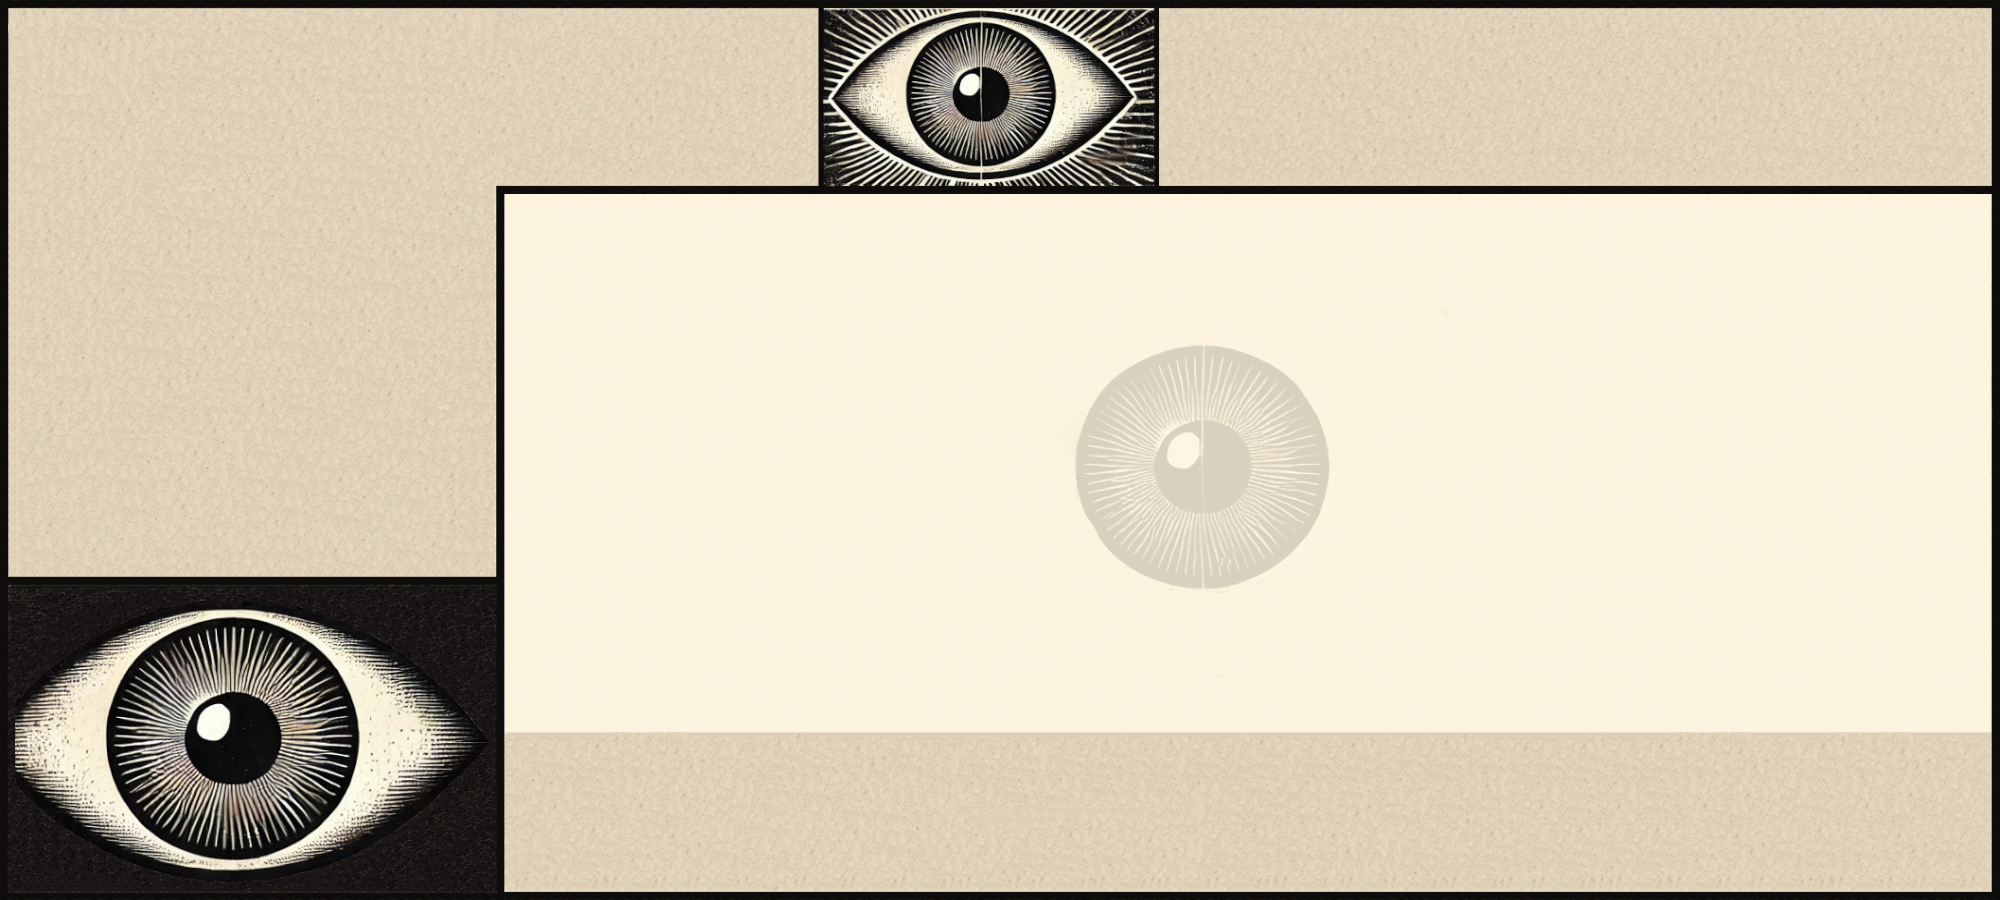
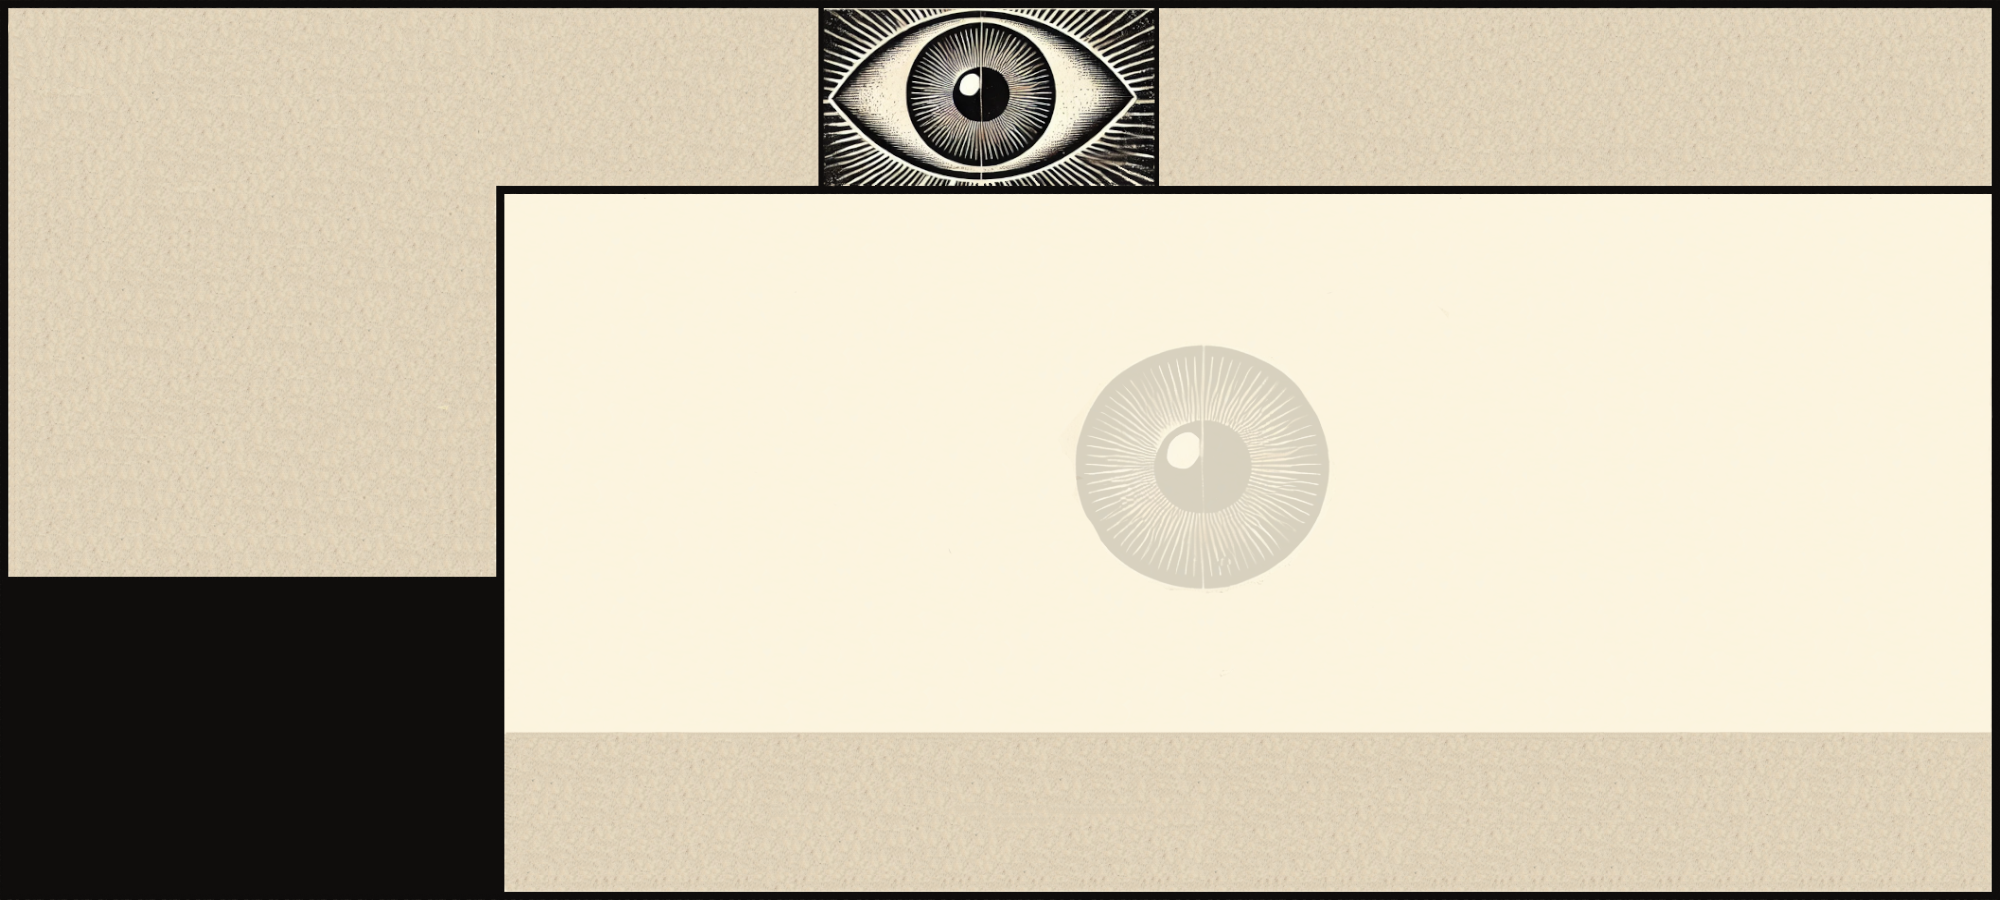
now they are really always watching...

Changed region(s): [[0.0, 0.6533, 0.248, 0.9644]]

diff --git a/Frontend/html/chat.html b/Frontend/html/chat.html
@@ -20,6 +20,10 @@
                 </div>
                 <div id="chat-view-messages-container" class="grid-cell default-grid-area msgs barely-a-scroll-class"></div>
                 <text-field id="chat-view-text-field" class="grid-cell default-grid-area input" width="100" height="100" clear="true"></text-field>
+                <div id="chat-view-eye-container" class="grid-cell default-grid-area eye">
+                    <img id="chat-view-eye-background" src="../assets/chat/eye.png" alt="Main Image" style="display: block;">
+                    <img id="chat-view-eye-pupil" src="../assets/chat/ball.png" alt="Overlay Image" style="display: block;">
+                </div>
             </div>
         </div>
     </div>
@@ -31,21 +35,21 @@
 <style>
     /* The basic valus of the grid are already set in main.css */
     .view-overlay-grid {
-        grid-template-columns: 1.5% 22.7% 2% 1fr 7% 7.5% 1.5%;
+        grid-template-columns: 1.5% 22.7% 0.6% 1.4% 1fr 7% 7.5% 1.5%;
         grid-template-rows: 2.2% 6% 1.25% 5.5% 1.25% 3.5% 2.7% 41% 17% 2.5% 1fr 3%;
         grid-template-areas:
-            ".       .       .       .      .       .             ."
-            ".       header  .       .      details details-img   ."
-            ".       .       .       .      details details-img   ."
-            ".       search  .       .      details details-img   ."
-            ".       .  .       .      details details-img   ."
-            ".       convs       .       .      details details-img   ."
-            ".       convs       .       .      .       .             ."
-            ".       convs   .       msgs   msgs    msgs          ."
-            ".       .       .       msgs   msgs    msgs          ."
-            ".       .       .       .      .       .             ."
-            ".       .       .       input  input   input          ."
-            ".       .       .       .      .       .             ."
+            ".       .       .      .       .      .       .             ."
+            ".       header  .      .       .      details details-img   ."
+            ".       .       .      .       .      details details-img   ."
+            ".       search  .      .       .      details details-img   ."
+            ".       .  .    .      .      details details-img   ."
+            ".       convs   .      .       .      details details-img   ."
+            ".       convs   .      .       .      .       .             ."
+            ".       convs   .      .       msgs   msgs    msgs          ."
+            "eye     eye     eye    .       msgs   msgs    msgs          ."
+            "eye     eye     eye    .       .      .       .             ."
+            "eye     eye     eye    .       input  input   input          ."
+            "eye     eye     eye    .       .      .       .             ."
     }
 
 
@@ -98,6 +102,30 @@
         margin-left: 2.5%;
         background-color: black;
         color: white;
+    }
+
+    .eye {
+        display: flex;
+        position: relative;
+        grid-area: eye;
+        background-color: #f0f0f0;
+    }
+
+    #chat-view-eye-background {
+        display: block !important;
+        height: 100%;
+        width: 100%;
+    }
+
+    #chat-view-eye-pupil {
+        display: block !important;
+        position: absolute;
+        height: 50%;
+        width: auto;
+        top: 50%;
+        left: 50%;
+        transform: translate(-50%, -50%);
+        z-index: 2;
     }
 
     /* For the image at the top right */

diff --git a/Frontend/js/views/chat/configs.js b/Frontend/js/views/chat/configs.js
@@ -159,6 +159,30 @@ export default {
             }
         },
 
+        eyeListener(event){
+            let backgroundImage = this.domManip.$id("chat-view-eye-background");
+            let pupil = this.domManip.$id("chat-view-eye-pupil");
+            const rect = backgroundImage.getBoundingClientRect();
+            const centerX = rect.left + rect.width / 2;
+            const centerY = rect.top + rect.height / 2;
+            const relativeX = Math.round(event.clientX - centerX);
+            const relativeY = Math.round(event.clientY - centerY);
+            const maxMoveX = backgroundImage.width * 0.15;
+            const maxMoveY = backgroundImage.height * 0.12;
+            let percentageMoveX = 0
+            let percentageMoveY = 0
+            if (relativeX > 0)
+                percentageMoveX = (relativeX / (window.innerWidth - centerX));
+            else
+                percentageMoveX = (relativeX / centerX);
+            if (relativeY > 0)
+                percentageMoveY = (relativeY / (window.innerHeight - centerY));
+            else
+                percentageMoveY = (relativeY / centerY);
+            const moveX = percentageMoveX * maxMoveX;
+            const moveY = percentageMoveY * maxMoveY;
+            pupil.style.transform = `translate(-50%, -50%) translate(${moveX}px, ${moveY}px)`;
+        },
         // ADDIND / REMOVING EVENT LISTENERS
         // -------------------------------------------
         // Adding / Removing Event Listeners for the infinite scroll
@@ -265,6 +289,18 @@ export default {
             }
         },
 
+        initEyeListener(init = true) {
+            if (init)
+                this.domManip.$on(document, "mousemove", this.eyeListener);
+            else {
+                if(this.eyeListener)
+                    this.domManip.$off(document, "mousemove", this.eyeListener);
+                else
+                    console.log("eyeListener is not defined, cannot remove listener.");
+                return ;
+            }
+        },
+
         // This will be called only once by afterDomInsertion to initalize the cards via REST API
         async loadConversations() {
             const conversationsContainer = this.domManip.$id('chat-view-conversations-container');
@@ -337,6 +373,7 @@ export default {
             this.initAvatarClick(false);
             this.initSearch(false);
             this.initMentionClick(false);
+            this.initEyeListener(false);
 
             // Inform WebSocketManager that we are leaving the chat
             WebSocketManager.setCurrentRoute(undefined);
@@ -388,6 +425,7 @@ export default {
             this.initAvatarClick();
             this.initSearch()
             this.initMentionClick();
+            this.initEyeListener();
         },
     },
 };
